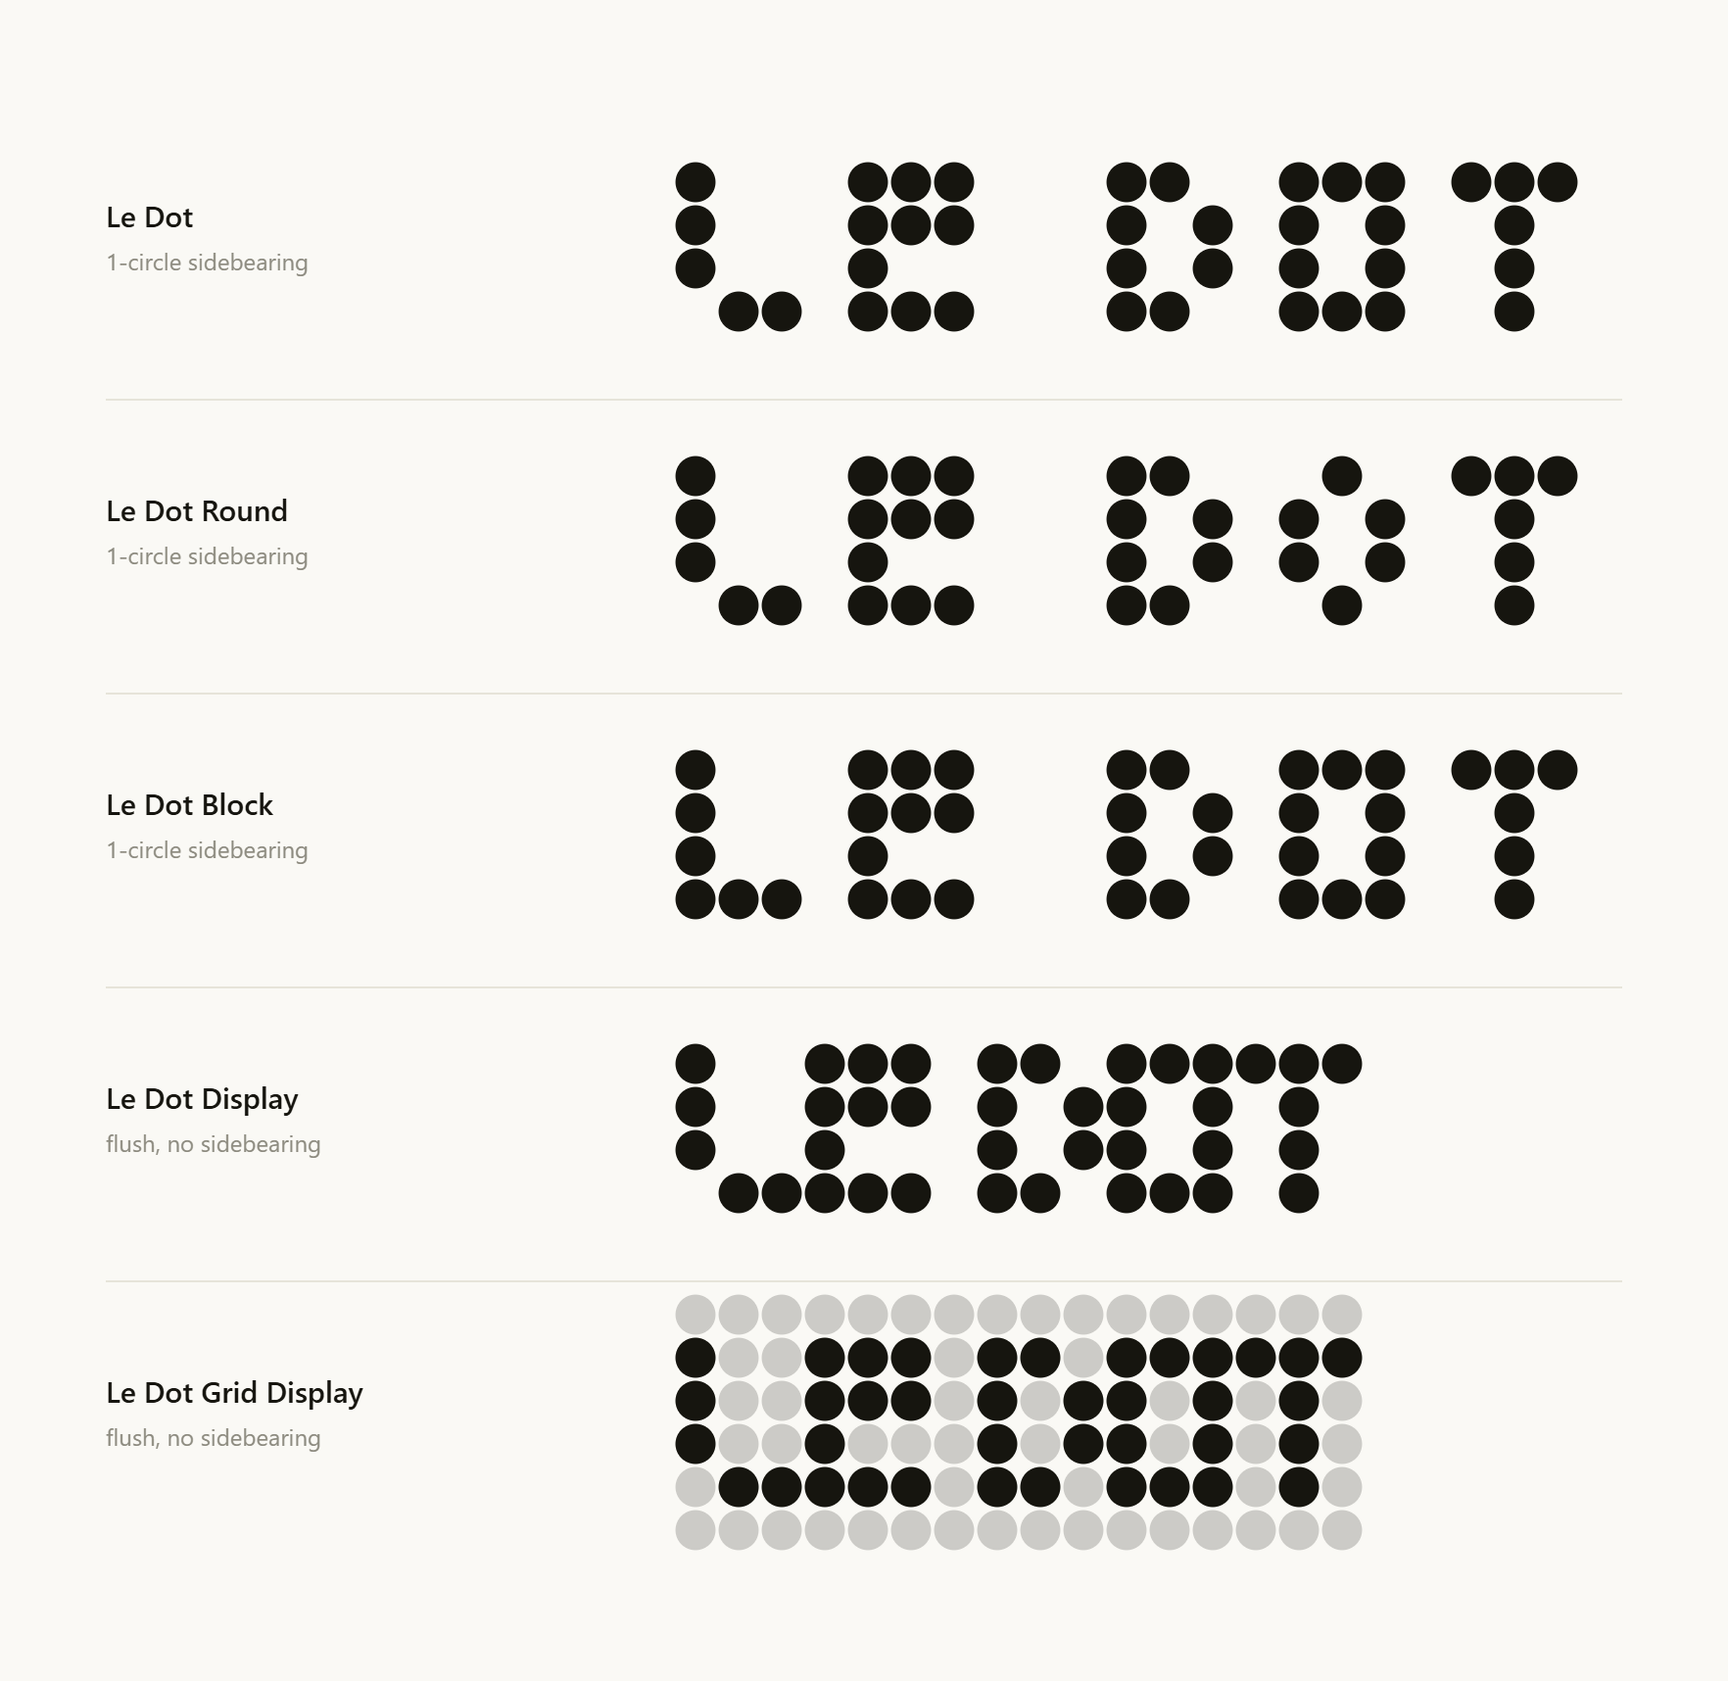
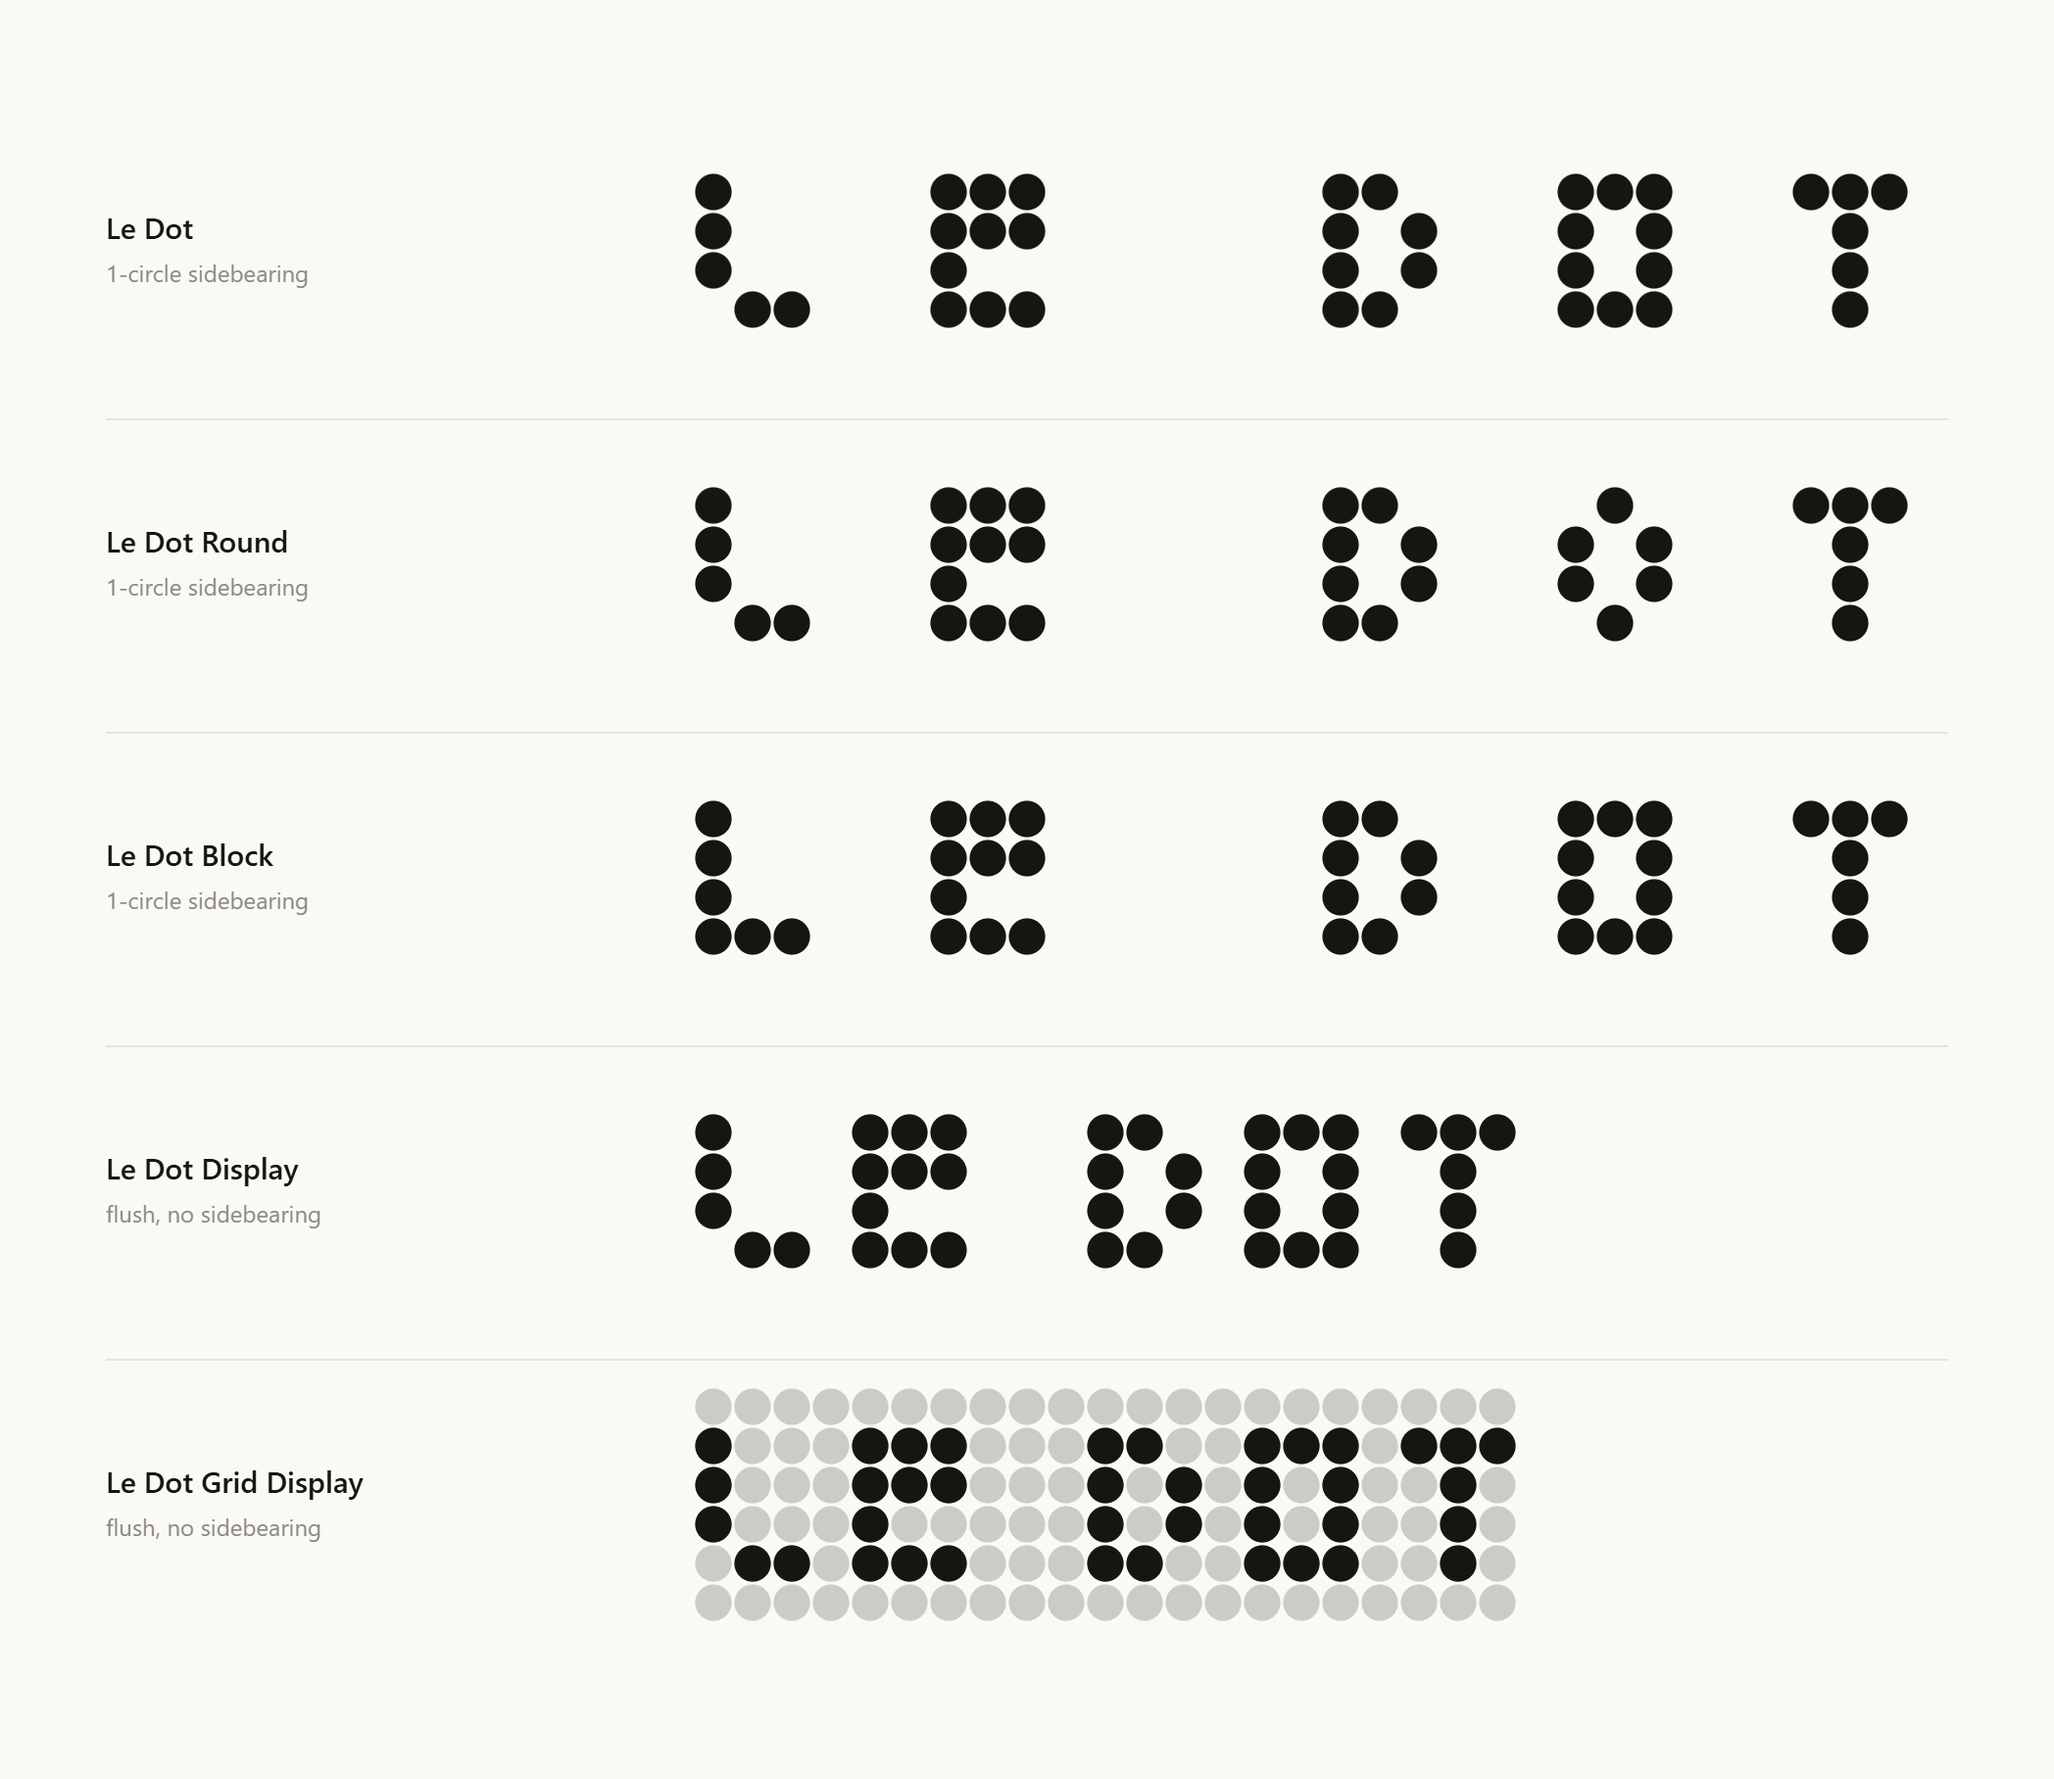
Add files via upload

diff --git a/README.md b/README.md
@@ -30,6 +30,21 @@ Unzip, then double-click each `.ttf` to install. Or grab one cut on its own:
 | **Le Dot Grid Display** | flush, with the 20% matrix printed | [download](https://github.com/dyyle02/Le-Dot/raw/main/LeDotGridDisplay-Regular.ttf) |
 | **Le Dot Grid Backdrop** | the matrix on its own, for Figma | [download](https://github.com/dyyle02/Le-Dot/raw/main/LeDotGridBackdrop-Regular.ttf) |
 
+## Spacing
+
+Regular, Round and Block carry a one-circle sidebearing on the right of every glyph, so words space
+themselves: type normally and letters sit one circle apart.
+
+Display and Grid Display carry **no sidebearing at all**. Letters butt straight against each other,
+dot to dot, with nothing between them. That is deliberate, not an oversight: it hands the spacing
+back to you instead of the font deciding it. The space character becomes your unit of measure. One
+space puts exactly one circle between two letters, two spaces put two, and none leaves them fused
+into a continuous block. Every specimen above is set with a single space between letters; for Grid
+Display, a leading and trailing space extends the matrix one column past the word on each side.
+
+Regular, Round and Block already include that circle, so adding spaces there widens the gap to two
+circles or more.
+
 ## Character set
 
 97 glyphs per cut: uppercase, lowercase, figures, and punctuation.
